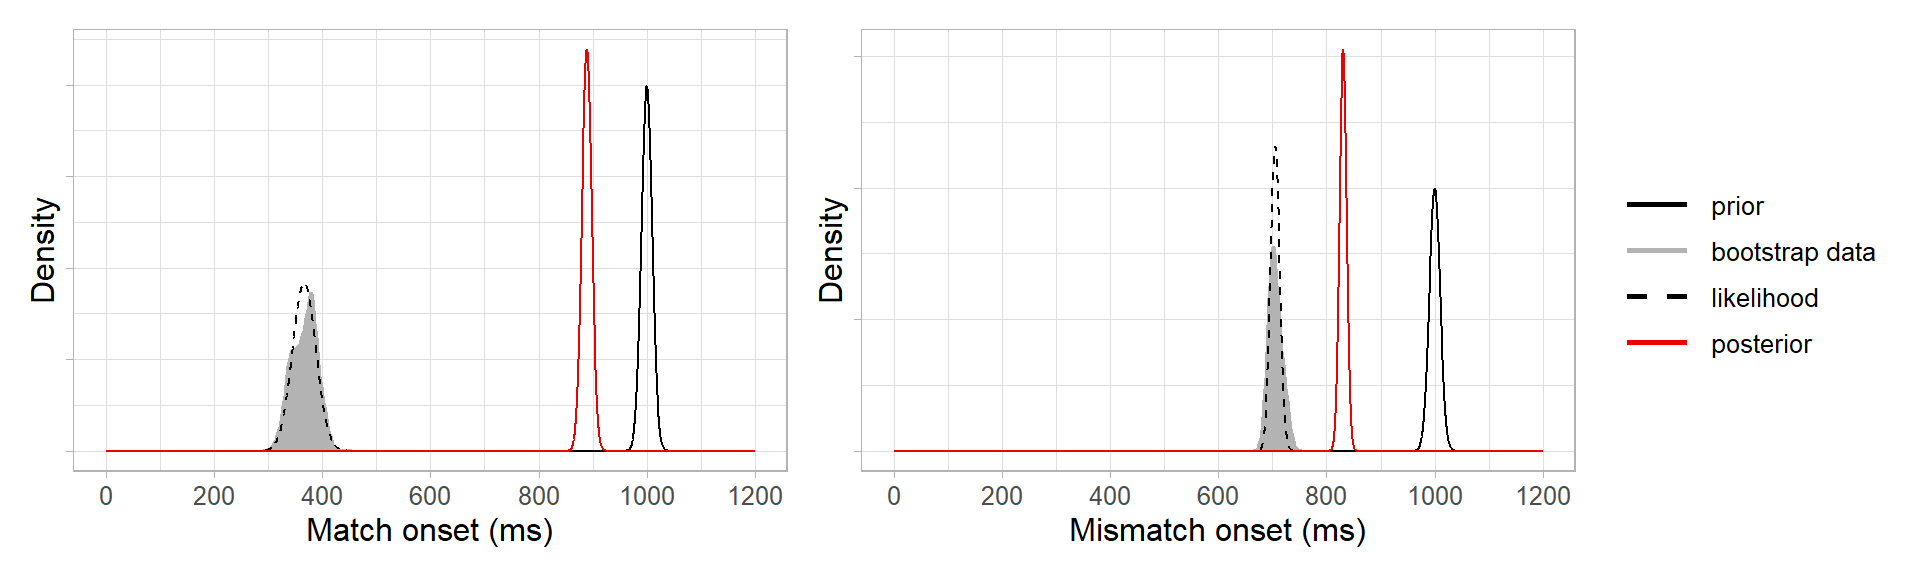
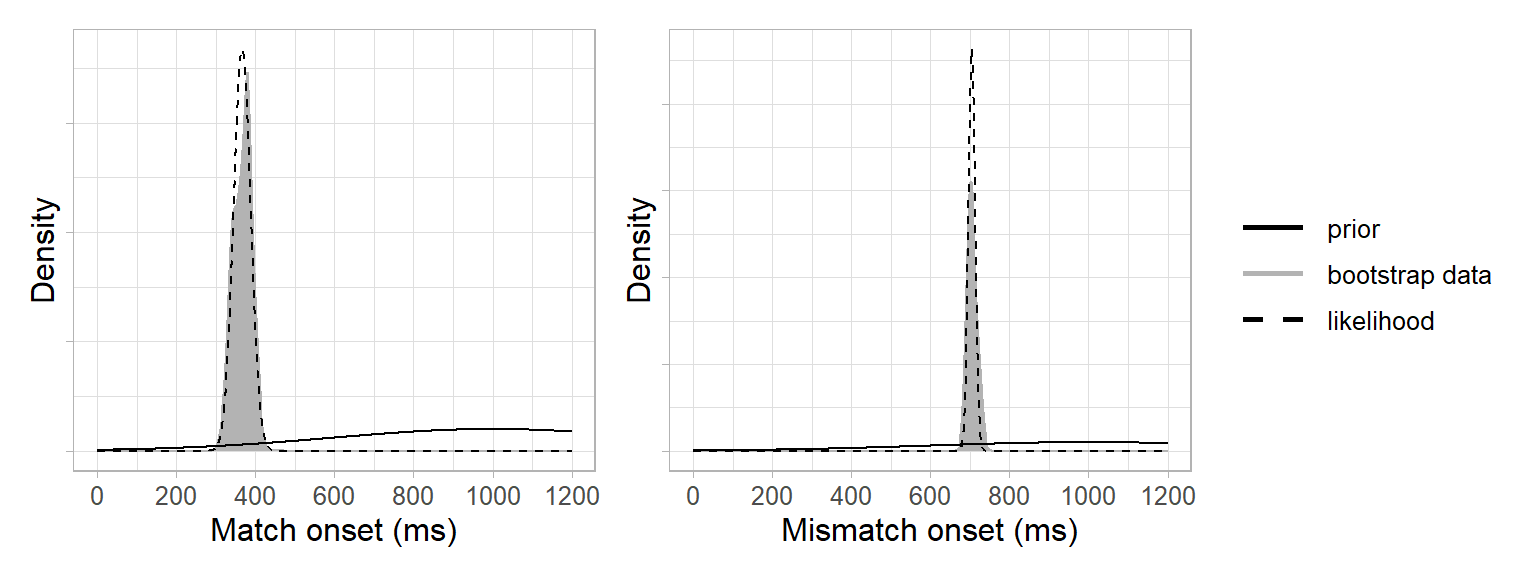
bpda blog edits

diff --git a/blog/bpda/index.html b/blog/bpda/index.html
@@ -169,7 +169,7 @@
 <p>The visual world is a useful paradigm in psycholinguistics for tracking people’s eye fixations as they listen to sentences containing some kind of experimental manipulation. A common question is whether the experimental manipulation makes people look at a target object earlier in one condition than another. To answer this, we need to decide <em>when</em> in each condition people start looking at the target and compare these timepoints between conditions. But this is not as straightforward as it sounds!<a href="#fn1" class="footnote-ref" id="fnref1"><sup>1</sup></a> We came up with a bootstrapping method to do this in <a href="https://doi.org/10.1017/S1366728920000607">Stone, Lago &amp; Schad, 2020</a>. However, bootstrapping makes some unlikely assumptions about data—I’ll come to these later—and so here we try to improve on these assumptions by adding Bayesian principles to our method. This was an approach developed with <a href="https://www.jverissimo.net/">João Veríssimo</a>, <a href="https://danielschad.github.io/">Daniel Schad</a>, and <a href="https://sollago.github.io/">Sol Lago</a>, and we apply it in <a href="https://osf.io/3uz7x/">this paper</a>.</p>
 <div id="the-bootstrap-procedure" class="section level3">
 <h3>The bootstrap procedure</h3>
-<p>A full workthrough of our bootstrap procedure can be found in <a href="https://doi.org/10.1017/S1366728920000607">Stone et al., 2020</a>, but for a quick overview here, we use example data from an experiment on using syntactic gender to predict an upcoming noun in German. Participants heard sentences like “<em>Klicke auf seinen blauen…</em>” (click on his.<sub>MASC</sub> blue.<sub>MASC</sub> …), while looking at two blue objects on a screen. Only one of the objects matched the gender marking of the pronoun and adjective. There were two experimental conditions: in the <code>match</code> condition, the target object and the object’s owner matched in gender, e.g. <em>seinen Knopf</em> (his button.<sub>MASC</sub>). In the <code>mismatch</code> condition, the target object and the object’s owner mismatched in gender, e.g. <em>ihren Knopf</em> (her button.<sub>MASC</sub>).</p>
+<p>A coded tutorial of our bootstrap procedure in Stone et al. (2020) is at <a href="https://osf.io/exbmk/">https://osf.io/exbmk/</a>, but for a quick overview, we use example data from an experiment on using syntactic gender to predict an upcoming noun in German. Participants heard sentences like “<em>Klicke auf seinen blauen…</em>” (click on his.<sub>MASC</sub> blue.<sub>MASC</sub> …), while looking at two blue objects on a screen. Only one of the objects matched the gender marking of the pronoun and adjective. There were two experimental conditions: in the <code>match</code> condition, the target object and the object’s owner matched in gender, e.g. <em>seinen Knopf</em> (his button.<sub>MASC</sub>). In the <code>mismatch</code> condition, the target object and the object’s owner mismatched in gender, e.g. <em>ihren Knopf</em> (her button.<sub>MASC</sub>).</p>
 <center>
 <img src="/images/objects.PNG" style="width:85.0%;height:85.0%" />
 </center>
@@ -210,11 +210,24 @@
 </div>
 <div id="adding-bayesian-principles" class="section level3">
 <h3>Adding Bayesian principles</h3>
-<p><a href="https://en.wikipedia.org/wiki/Bayesian_inference">Bayesian inference</a> estimates our certainty about an event based on our prior knowledge about the probability of that event and new data. In our case, the event is prediction onsets. We can estimate our certainty about prediction onsets via Bayes’ theorem, which estimates a <a href="https://en.wikipedia.org/wiki/Posterior_probability">posterior probability distribution</a> using two components: priors to encode our expectations about when the onset could be, and data to inform posterior inference via a <a href="https://en.wikipedia.org/wiki/Likelihood_function">likelihood function</a><a href="#fn3" class="footnote-ref" id="fnref3"><sup>3</sup></a>.</p>
-<p>We start with the priors: we reasoned that predictiton onsets could only arise in the 1600 ms time window between the onset of the pronoun and the onset of the noun (adding 200 ms for saccade planning). We therefore specified a normal distribution centered in the middle of this critical window, with a 95% probability of the onset falling between 200 and 1800 ms: <span class="math inline">\(N(1000,400)\)</span>. Our prior distributions for the match and mismatch conditions therefore looked like this:</p>
-<p><img src="/blog/bpda_files/figure-html/unnamed-chunk-4-1.png" width="768" style="display: block; margin: auto;" /></p>
-<p>Next, we needed a likelihood function. This involved two steps: We used the bootstrap data to approximate a likelihood and a normal distribution to approximate a likelihood function (i.e. Laplace approximation). This was based on the assumption of the central limit theorem that the population distribution underlying the bootstrap data was approximately normal<a href="#fn4" class="footnote-ref" id="fnref4"><sup>4</sup></a>. In other words, our likelihood function was a normal distribution with the mean and standard deviation of the bootstrap data:</p>
+<p>Bayesian inference estimates our certainty about an event based on our prior knowledge about the probability of that event and new data. In our case, the event is prediction onsets. We can estimate our certainty about prediction onsets via Bayes’ theorem, which estimates a <a href="https://en.wikipedia.org/wiki/Posterior_probability">posterior probability distribution</a> using two components: priors to encode our expectations about when the onset could be, and data to inform posterior inference via a <a href="https://en.wikipedia.org/wiki/Likelihood_function">likelihood function</a><a href="#fn3" class="footnote-ref" id="fnref3"><sup>3</sup></a>.</p>
+<p>We start with the priors: we reasoned that prediction onsets could only arise in the 1600 ms time window between the onset of the pronoun and the onset of the noun (adding 200 ms for saccade planning). We therefore specified a normal distribution centered in the middle of this critical window, with a 95% probability of the onset falling between 200 and 1800 ms: <span class="math inline">\(N(1000,400)\)</span>:</p>
+<pre class="r"><code>prior_mean  &lt;- 1000
+prior_sd    &lt;- 400</code></pre>
+<p>Our prior distributions for the match and mismatch conditions therefore looked like this:</p>
 <p><img src="/blog/bpda_files/figure-html/unnamed-chunk-5-1.png" width="768" style="display: block; margin: auto;" /></p>
+<p>Next, we needed a likelihood function. This involved two steps: We used the bootstrap data to approximate a likelihood and a normal distribution to approximate a likelihood function (i.e. Laplace approximation). This was based on the assumption of the central limit theorem that the population distribution underlying the bootstrap data was approximately normal<a href="#fn4" class="footnote-ref" id="fnref4"><sup>4</sup></a>. In other words, our likelihood function was a normal distribution with the mean and standard deviation of the bootstrap data:</p>
+<pre class="r"><code># match condition
+likelihood_mean_match    &lt;- mean(bootstrap_samples$match, na.rm = TRUE)
+likelihood_sd_match      &lt;- sd(bootstrap_samples$match, na.rm = TRUE)*
+                                 (length(bootstrap_samples$match)-1)/length(bootstrap_samples$match)
+
+
+# mismatch condition
+likelihood_mean_mismatch &lt;- mean(bootstrap_samples$mismatch, na.rm = TRUE)
+likelihood_sd_mismatch   &lt;- sd(bootstrap_samples$mismatch, na.rm = TRUE)*
+                                 (length(bootstrap_samples$mismatch)-1)/length(bootstrap_samples$mismatch)</code></pre>
+<p><img src="/blog/bpda_files/figure-html/unnamed-chunk-7-1.png" width="768" style="display: block; margin: auto;" /></p>
 <p>Finally, we could now derive the posterior distribution as the product of the prior and the likelihood. Because the prior and the likelihood are normal distributions, the posteriors for each condition can be derived analytically as the <a href="https://ccrma.stanford.edu/~jos/sasp/Product_Two_Gaussian_PDFs.html">product of two Gaussian probability density functions</a>.</p>
 <ul>
 <li><span class="math inline">\(N(\mu_{prior},\sigma_{prior})\)</span> is the prior,</li>
@@ -232,13 +245,24 @@
 \sigma_{posterior} &amp;= \sqrt\frac{\sigma_{prior}^2 \sigma_{lik}^2}{\sigma_{prior}^2 + \sigma_{lik}^2} \\ &amp;= 
 \sqrt\frac{400^2 \cdot 22^2}{400^2 + 22^2} \\ &amp;= 22 ms 
 \end{aligned}
-\]</span></p>
-<p>Via the same calculation, the posterior for the mismatch onset is 705 ms (SD = 9 ms). We can add these posteriors to our plots and see that they resemble the bootstrap data:</p>
-<p><img src="/blog/bpda_files/figure-html/unnamed-chunk-6-1.png" width="768" style="display: block; margin: auto;" /></p>
+\]</span>
+Via the same calculation, the posterior for the mismatch onset is 705 ms (SD = 9 ms):</p>
+<pre class="r"><code># match
+posterior_mean_match     &lt;- ((likelihood_mean_match*prior_sd^2) + (prior_mean*likelihood_sd_match^2)) /
+                                (prior_sd^2 + likelihood_sd_match^2)
+posterior_sd_match       &lt;- sqrt( (likelihood_sd_match^2 * prior_sd^2) / (likelihood_sd_match^2 + prior_sd^2) )
+
+
+# mismatch
+posterior_mean_mismatch  &lt;- ((likelihood_mean_mismatch*prior_sd^2) + (prior_mean*likelihood_sd_mismatch^2)) /
+                                (prior_sd^2 + likelihood_sd_mismatch^2)
+posterior_sd_mismatch    &lt;- sqrt( (likelihood_sd_mismatch^2 * prior_sd^2) / (likelihood_sd_mismatch^2 + prior_sd^2) )</code></pre>
+<p>We can add these posteriors to our plots and see that they resemble the bootstrap data:</p>
+<p><img src="/blog/bpda_files/figure-html/unnamed-chunk-9-1.png" width="768" style="display: block; margin: auto;" /></p>
 <p>This is because our prior was relatively uninformative, and so the posteriors are informed more strongly by the bootstrap data than by the prior. If we had defined a strongly informative prior to say we were very certain that the prediction onsets would be 1000 ms, e.g. <span class="math inline">\(N(1000, 10)\)</span>, then the posteriors would be pulled toward the prior (not completely, as they’re still being informed by the data):</p>
-<p><img src="/blog/bpda_files/figure-html/unnamed-chunk-7-1.png" width="960" style="display: block; margin: auto;" /></p>
+<p><img src="/blog/bpda_files/figure-html/unnamed-chunk-10-1.png" width="960" style="display: block; margin: auto;" /></p>
 <p>How do the Bayesian onsets (red, uninformative priors) compare with the onsets from the original bootstrap procedure (black)? Quite well:</p>
-<p><img src="/blog/bpda_files/figure-html/unnamed-chunk-8-1.png" width="576" style="display: block; margin: auto;" /></p>
+<p><img src="/blog/bpda_files/figure-html/unnamed-chunk-11-1.png" width="576" style="display: block; margin: auto;" /></p>
 <p>Now, how to decide whether the mismatch condition was slower? Because the match and mismatch posteriors are normal distributions, we can find the posterior of their difference as the <a href="https://mathworld.wolfram.com/NormalDifferenceDistribution.html">difference of two normal distributions</a>:</p>
 <p><span class="math display">\[ \begin{aligned}
 \mu_{posterior_{difference}} &amp;= \mu_{posterior_{mismatch}} - \mu_{posterior_{match}} \\
@@ -252,11 +276,13 @@
  &amp;= 24ms
 \end{aligned}
 \]</span></p>
+<pre class="r"><code>posterior_mean_difference  &lt;- posterior_mean_mismatch - posterior_mean_match
+posterior_sd_difference    &lt;- sqrt( posterior_sd_mismatch^2 + posterior_sd_match^2 )</code></pre>
 <p>We now have a posterior estimate that predictions in the mismatch condition were 336 ms slower than in the match condition, with a 95% credible interval of 288–384 ms. This posterior aligns quite well with the original bootstrap difference distribution, which estimated a difference of 338 ms with a 95th percentile interval of 300–380ms.</p>
 <div id="quantifying-evidence-with-a-bayes-factor" class="section level4">
 <h4>Quantifying evidence with a Bayes factor</h4>
 <p>How much has seeing the data changed our belief in the null hypothesis that the difference between match/mismatch conditions is zero? Since the likelihood is not normalised, we can use the Savage-Dickey method to compute a Bayes factor and quantify evidence against the null (<a href="https://www.jstor.org/stable/2239734">Dickey &amp; Lientz, 1970</a>; <a href="https://doi.org/10.1016/j.cogpsych.2009.12.001">Wagenmakers et al., 2010</a>). This method finds the ratio of prior to posterior density at some point value (e.g. zero):</p>
-<p><img src="/blog/bpda_files/figure-html/unnamed-chunk-9-1.png" width="336" style="display: block; margin: auto;" /></p>
+<p><img src="/blog/bpda_files/figure-html/unnamed-chunk-13-1.png" width="336" style="display: block; margin: auto;" /></p>
 <p>We compute the ratio via the equation below, where</p>
 <ul>
 <li><span class="math inline">\(\theta\)</span> is the point at which we want to compare densities (e.g. zero),</li>
@@ -269,15 +295,19 @@
 <pre class="r"><code># define the null hypothesis
 null_hypothesis &lt;- 0
 
+# define a prior for the distribution of differences 
+prior_mean_difference   &lt;- prior_mean - prior_mean
+prior_sd_difference     &lt;- sqrt(prior_sd^2 + prior_sd^2)
+
 # find the density of the prior at the null hypothesis
 density_prior_null     &lt;- dnorm(null_hypothesis, 
-                                difference_prior_mean, 
-                                difference_prior_sd)
+                                prior_mean_difference, 
+                                prior_sd_difference)
 
 # find the density of the posterior at the null hypothesis
 density_posterior_null &lt;- dnorm(null_hypothesis, 
-                                difference_posterior_mean, 
-                                difference_posterior_sd)
+                                posterior_mean_difference, 
+                                posterior_sd_difference)
 
 
 # use Savage-Dickey equation to compute the Bayes factor
@@ -291,7 +321,7 @@ density_posterior_null &lt;- dnorm(null_hypothesis,
 <div id="conclusions" class="section level3">
 <h3>Conclusions</h3>
 <p>Using our Bayesian divergence point analysis, we find strong evidence that prediction onsets were slower when there were two conflicting gender cues. The posterior estimate of the “mismatch effect” size was 336 ms, with a 95% credible interval of 288–384 ms. But our existing bootstrap procedure already led us to the same conclusion, so what was the advantage of adding Bayesian principles?</p>
-<p>The Bayesian approach has all the advantages that Bayesian inference has over frequentist null hypothesis significance testing. These include that the posterior is a continuous probability distribution that gives us information about the probability of non-observed values in the data. The 95% credible interval can thus be interpreted as a range of possible between-condition differences in which the true size of the difference should lie with 95% probability, given the data and the analysis. This interpretation is more intuitive than the percentile confidence interval from the existing bootstrap method, which just told us were 95% of the resampled data lay. Moreover, we can now quantify evidence for our conclusions, and even for the null hypothesis. Finally, because the Bayesian method uses priors, we can use our posterior estimates as information about plausible effect sizes to inform the priors of future experiments.</p>
+<p>The Bayesian approach has all the advantages that Bayesian inference has over frequentist null hypothesis significance testing. These include that the posterior is a continuous probability distribution that gives us information about the probability of non-observed values in the data. The 95% credible interval can thus be interpreted as a range of possible between-condition differences in which the true size of the difference should lie with 95% probability, given the data and the analysis. This interpretation is more intuitive than the percentile confidence interval from the existing bootstrap method, which just told us were 95% of the resampled data lay. Moreover, we can now quantify evidence for our conclusions, and even for the null hypothesis, using a Bayes factor. Finally, because the Bayesian method uses priors, we can use our posterior estimates as information about plausible effect sizes to inform the priors of future experiments.</p>
 <!-- ### Appendix 1 {-} -->
 <!--  Above we mentioned that the distribution of our bootstrap data is not normal, and so using a normal distribution as a likelihood may not be appropriate. Instead, we can use a density function as our likelihood, although this means it is no longer possible to obtain the posterior as the product of two Gaussians. Also, our likelihood is still not normalised. To solve these issues, here we demonstrate how to use a density likelihood and obtain the posterior via sampling.  -->
 <!-- First we define a likelihood for the match condition using a kernel density estimator of the original bootstrap data: -->
